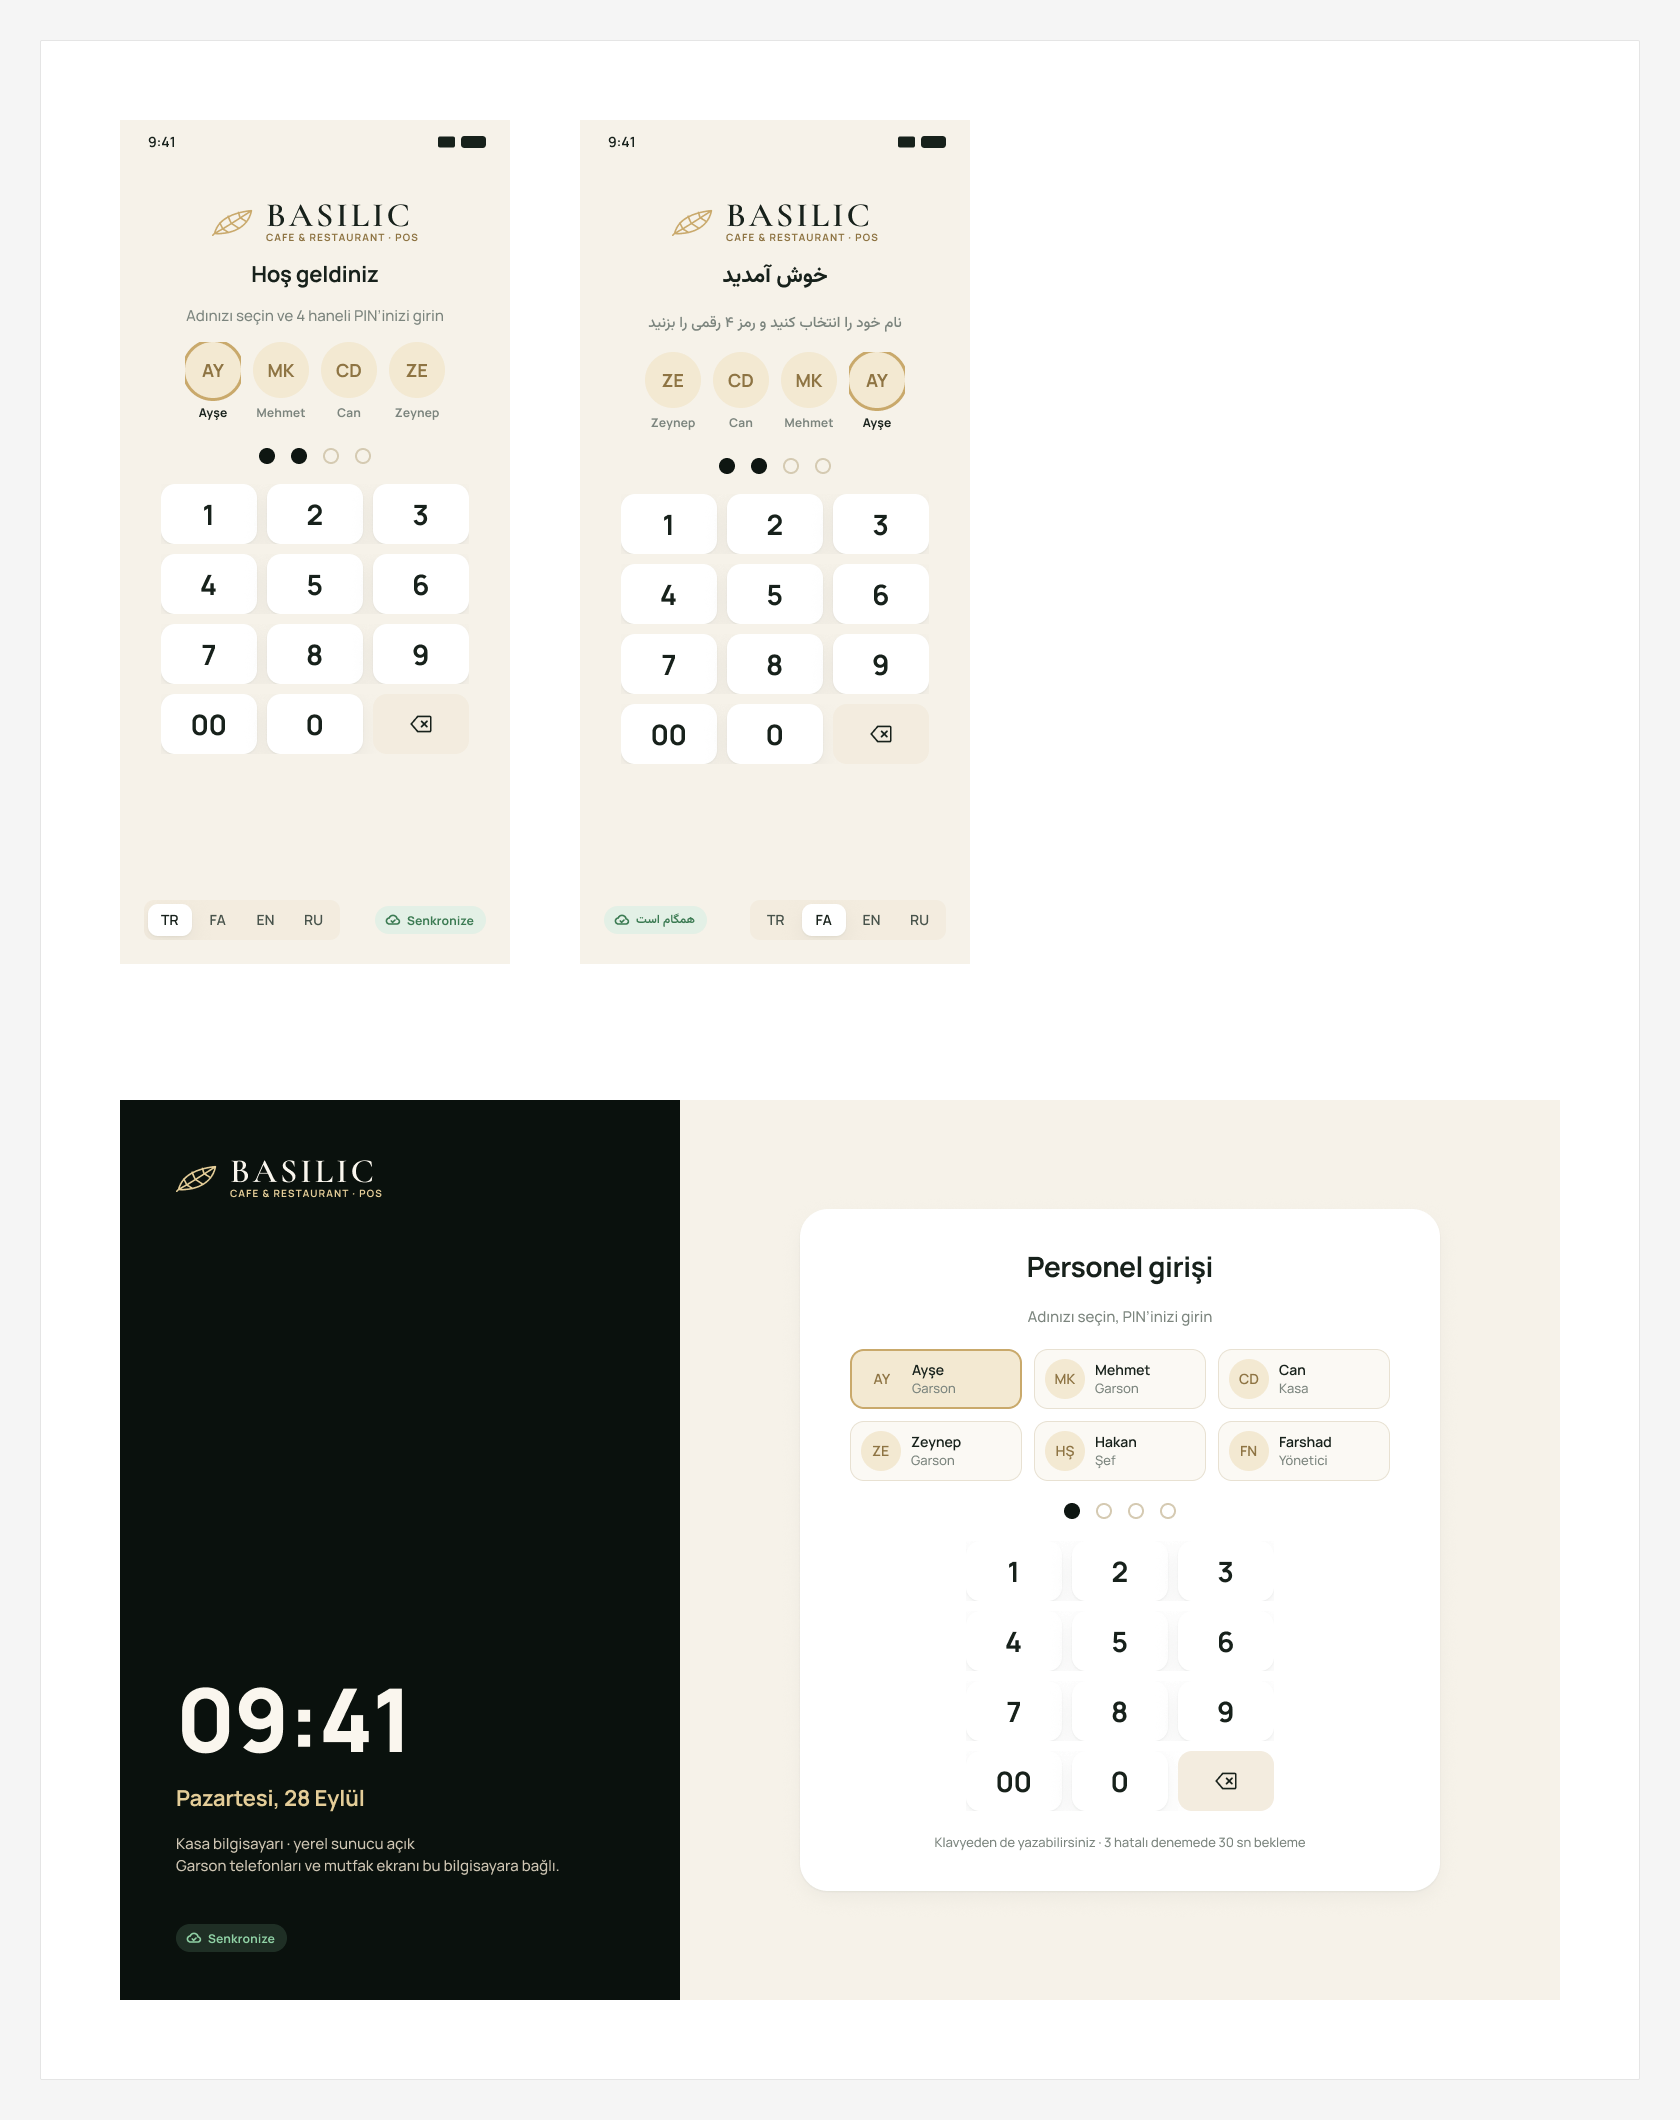
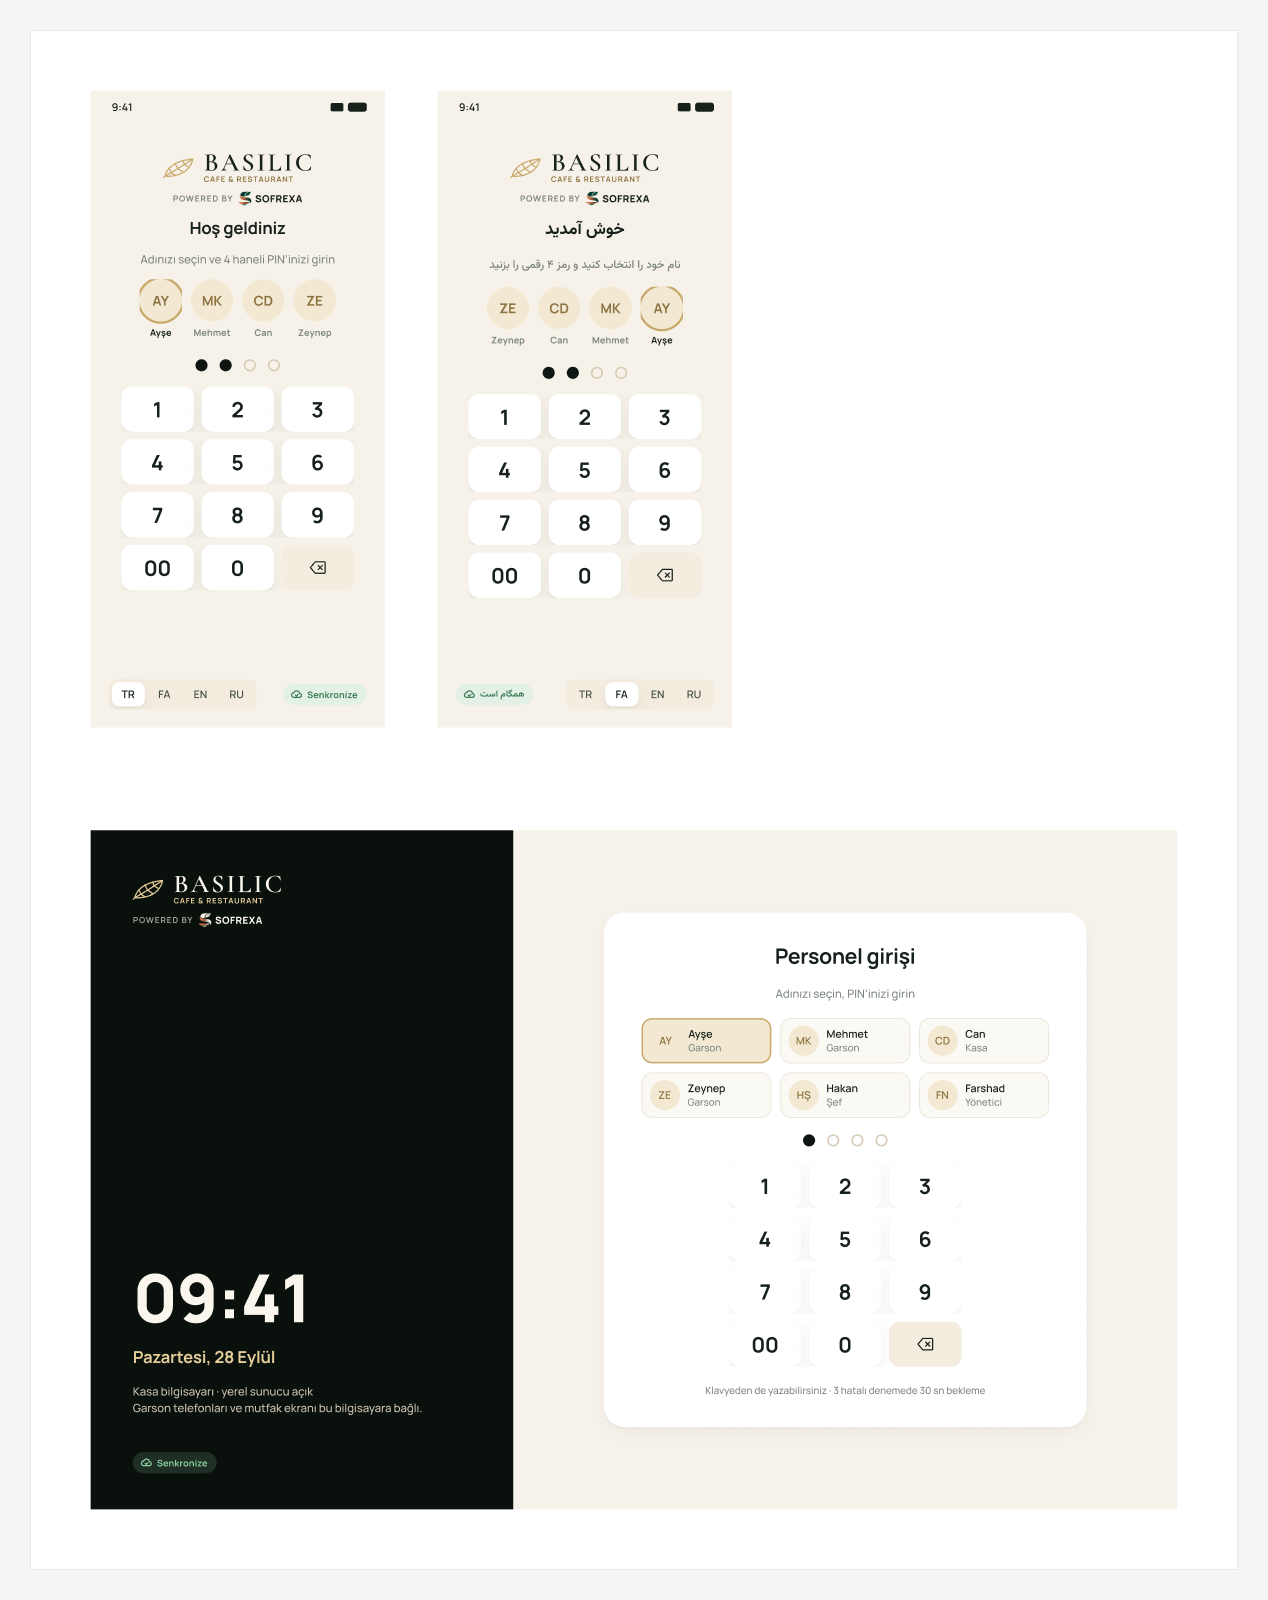
Rebrand to Sofrexa; Basilic becomes the first tenant
Sofrexa is the platform; each restaurant is a tenant with its own name
and logo.

- brand/: Sofrexa logo and mark, dark and light versions
- Figma: Logo/Sofrexa and Brand/PoweredBy components; Logo renamed to
  Logo/Basilic and 'POS' dropped from its tagline
- Login screens L1/L2/L3 now show the tenant logo with POWERED BY SOFREXA
- Cover page rebranded, with Basilic named as the first deployment
- Customer receipt and bill carry a discreet 'powered by SOFREXA' line
- README rewritten as the platform README; PLAN/handoff/IDs updated

diff --git a/PLAN.md b/PLAN.md
@@ -1,14 +1,15 @@
 <div dir="rtl">
 
-# سیستم مدیریت رستوران BASILIC — طرح و نقشهٔ راه
+# SOFREXA — پلتفرم مدیریت رستوران · طرح و نقشهٔ راه
 
-> آخرین بهروزرسانی: ۲۰۲۶/۰۹/۲۷
+> اولین نصب: **Basilic Cafe & Restaurant** (گیرنه، قبرس). در آن نسخه برند بهصورت «Basilic — powered by Sofrexa» دیده میشود.
+> آخرین بهروزرسانی: ۲۰۲۶/۰۹/۲۸
 > راهنما: هر کاری که تمام شود، در «نقشهٔ راه» (بخش ۹) تیک `[x]` میخورد و جدول «وضعیت در یک نگاه» بهروز میشود.
 > ⬜ شروع نشده · 🟡 در حال انجام · ✅ تمام شده
 
 **لینکها:**
-- طراحی (Figma): [BASILIC POS — Restaurant System](https://www.figma.com/design/1VzYLeeic0ExwgdWt7RbVw) — فهرست صفحهها: [docs/screens.md](docs/screens.md)
-- ریپوی GitHub: خصوصی، به اسم `basilic-pos` (منتظر ساخت؛ بخش ۱۱)
+- طراحی (Figma): [SOFREXA — Restaurant Operations Platform](https://www.figma.com/design/1VzYLeeic0ExwgdWt7RbVw) — فهرست صفحهها: [docs/screens.md](docs/screens.md)
+- ریپوی GitHub: خصوصی، به اسم `sofrexa`
 
 ## وضعیت در یک نگاه
 
@@ -400,15 +401,16 @@
 | ۱۸ | مانیتور آشپزخانه مستقیم در مرورگر خود TV اجرا میشود | ۲۰۲۶/۰۹/۲۷ |
 | ۱۹ | Figma مرجع ظاهر است و پیادهسازی عیناً مطابق آن؛ هر صفحه نسخهٔ موبایل و دسکتاپ دارد و موبایل اولویت دارد | ۲۰۲۶/۰۹/۲۷ |
 | ۲۰ | کد، سندها و نقشهٔ راه در ریپوی خصوصی GitHub نگهداری و در هر مرحله بهروز میشوند | ۲۰۲۶/۰۹/۲۷ |
+| ۲۱ | نام پلتفرم **Sofrexa** است و محصول قابل فروش به رستورانهای دیگر طراحی میشود؛ بازیلیک اولین مشتری است | ۲۰۲۶/۰۹/۲۸ |
+| ۲۲ | قاعدهٔ برند: صفحهٔ ورود و صفحههای مشتری لوگوی رستوران را نشان میدهند و زیر آن «POWERED BY SOFREXA»؛ داخل برنامه برند خود رستوران | ۲۰۲۶/۰۹/۲۸ |
 
 ## ۱۱. موارد باز
 
-- **ریپوی GitHub:** ابزار GitHub CLI روی این کامپیوتر نصب نیست و ساخت خودکار ریپو ممکن نشد. ریپوی محلی آماده است. کافی است یک ریپوی خصوصی خالی به اسم `basilic-pos` در GitHub ساخته شود تا همهچیز با یک فرمان بارگذاری شود.
 - **بررسی حضوری:** نحوهٔ دقیق اتصال پرینتر آشپزخانه.
 
 ## ۱۲. طراحی در Figma
 
-فایل: [BASILIC POS — Restaurant System](https://www.figma.com/design/1VzYLeeic0ExwgdWt7RbVw)
+فایل: [SOFREXA — Restaurant Operations Platform](https://www.figma.com/design/1VzYLeeic0ExwgdWt7RbVw)
 
 - **اندازهها:** موبایل ۳۹۰×۸۴۴، دسکتاپ ۱۴۴۰×۹۰۰، TV آشپزخانه ۱۹۲۰×۱۰۸۰، و فیش ۸۰ میلیمتری.
 - **رنگها:** رنگهای برند سایت: سبز تیره، طلایی و کرم.

diff --git a/README.md b/README.md
@@ -1,14 +1,43 @@
-# BASILIC POS
+<p align="center">
+  <img src="brand/sofrexa-logo.png" alt="Sofrexa" width="420">
+</p>
 
-Restaurant management system for BASILIC Cafe & Restaurant — replaces the legacy ItKafe program.
+<p align="center"><b>Restaurant Operations Platform</b></p>
 
-- **Plan & roadmap (Persian):** [PLAN.md](PLAN.md) — tick boxes show what is done.
-- **Design (Figma, source of truth):** https://www.figma.com/design/1VzYLeeic0ExwgdWt7RbVw
-- **Architecture:** local-first. The cashier PC runs the in-house server; the web copy on the host syncs with it and receives QR and online orders.
+---
 
-Folders:
+Sofrexa is a restaurant operations platform: orders, cashier, kitchen display, stock, customer accounts, staff, reports, QR table ordering and online ordering — in one system.
 
-- `docs/screens.md` — index of all 73 screens with direct Figma links
-- `docs/design-handoff.md` — tokens → CSS variables, components, layout rules for implementation
-- `docs/figma-ids.json` — Figma page, component and variable-collection IDs
-- `design/` — overview image of each Figma page
+It is **local-first**. The cashier PC runs the in-house server, so service never stops when the internet does; the web copy on the host stays in sync and receives QR and online orders.
+
+**First deployment:** Basilic Cafe & Restaurant — Girne, Cyprus. That instance is branded *Basilic — powered by Sofrexa*.
+
+## Documents
+
+- **[PLAN.md](PLAN.md)** — plan and roadmap (Persian). Tick boxes show what is done.
+- **[docs/screens.md](docs/screens.md)** — all 73 designed screens, each linking to its Figma frame.
+- **[docs/design-handoff.md](docs/design-handoff.md)** — tokens → CSS variables, components and layout rules. The build follows Figma exactly.
+- **[docs/figma-ids.json](docs/figma-ids.json)** — Figma page, component and variable-collection IDs.
+
+**Design (source of truth):** https://www.figma.com/design/1VzYLeeic0ExwgdWt7RbVw
+
+## Folders
+
+| Folder | Contents |
+|---|---|
+| `brand/` | Sofrexa logo and mark, in dark and light versions |
+| `design/` | Overview image of each Figma page |
+| `docs/` | Screen index and implementation handoff |
+
+## Branding rule
+
+Sofrexa is the platform; each restaurant is a tenant with its own name and logo.
+
+- **Login screen:** the restaurant logo, with `POWERED BY SOFREXA` underneath.
+- **Inside the app** (sidebar, kitchen display): the restaurant's own branding.
+- **Customer-facing** (QR menu, online ordering, receipts): the restaurant's branding, with a discreet Sofrexa line.
+- **Cover, marketing and a new tenant's sign-in page:** Sofrexa branding.
+
+## Status
+
+Design is complete (73 screens, 34 components, 98 icons). Implementation has not started — see the status table in [PLAN.md](PLAN.md).

diff --git a/docs/design-handoff.md b/docs/design-handoff.md
@@ -1,4 +1,4 @@
-# Design handoff — BASILIC POS
+# Design handoff — Sofrexa
 
 Figma file: https://www.figma.com/design/1VzYLeeic0ExwgdWt7RbVw (source of truth).
 **Rule:** the app is built to match Figma exactly — same tokens, same components, same spacing, on mobile and desktop.
@@ -50,7 +50,9 @@ Every Figma variable has its CSS name set as "code syntax" (Dev Mode shows it). 
 | Key/Keypad | | PIN and amounts |
 | KDS/TicketHeader, KDS/ItemRow | New/Cooking/Late/Ready; Todo/Done | kitchen TV (Dark) |
 | Customer/DishCard, Customer/CartBar | Default/InCart | QR and online menu (Dark) |
-| Logo | S/L | leaf mark + wordmark; the customer pages use the real logo image |
+| Logo/Basilic | S/L | tenant logo: leaf mark + BASILIC wordmark |
+| Logo/Sofrexa | Type Full/Mark x Theme Light/Dark | platform logo (raster asset from `brand/`). Theme only swaps the raster; text tokens follow the frame mode |
+| Brand/PoweredBy | Theme Light/Dark | `POWERED BY` + Sofrexa mark and wordmark. Sits under the tenant logo on login and customer pages |
 
 ## 3. Layout rules
 
